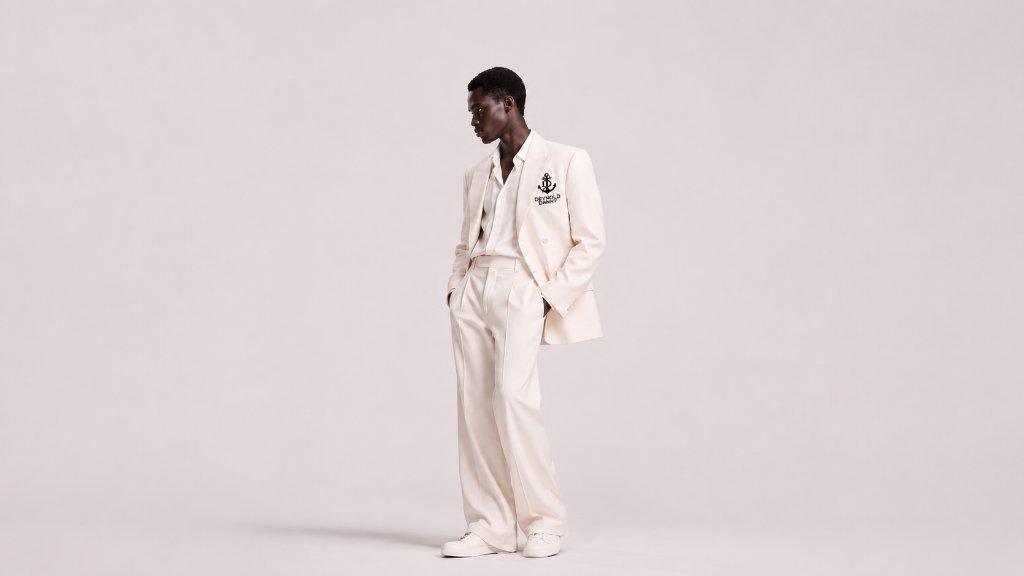
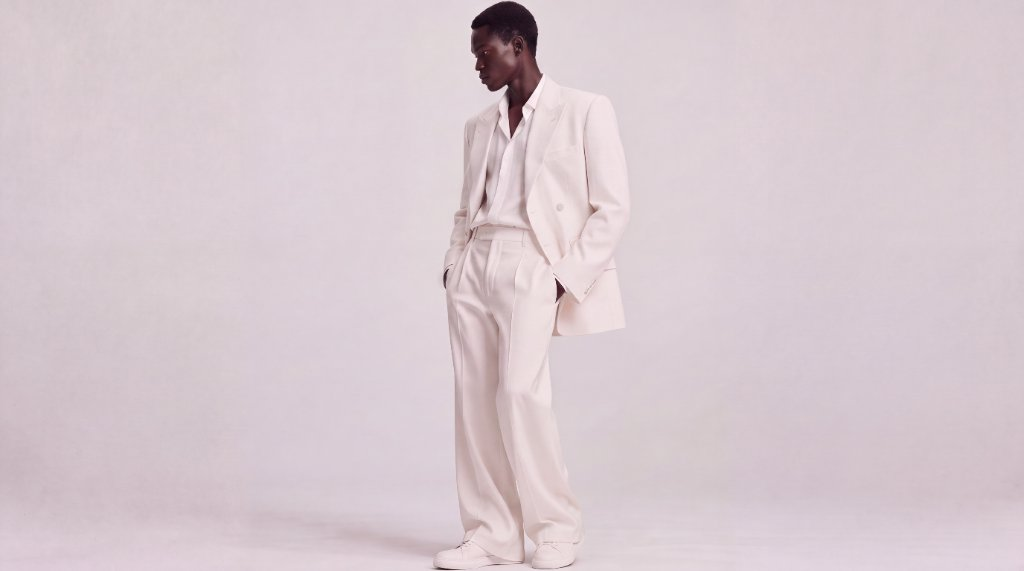
Render original 1024x571 clean-lapel hero image at native 1:1 size with minimal scrim

Changed region(s): [[0.3438, 0.0, 0.5938, 1.0], [0.0, 0.7443, 0.0625, 0.8634]]

diff --git a/src/styles/luxury-custom.css b/src/styles/luxury-custom.css
@@ -671,11 +671,12 @@ label:focus-visible {
   transform: translateX(4px);
 }
 
-/* Exact 1520.8 x 855 Hero Banner Container */
+/* Native 1024 x 571 Hero Banner Container */
 .hero-banner-container {
   width: 100%;
-  max-width: 1520.8px;
-  height: 855px;
+  max-width: 1024px;
+  height: auto;
+  aspect-ratio: 1024 / 571;
   position: relative;
   overflow: hidden;
   margin: 0 auto;
@@ -683,17 +684,16 @@ label:focus-visible {
   box-shadow: 0 4px 30px rgba(0, 0, 0, 0.04);
 }
 
-/* Subtle gradient overlay to guarantee perfect contrast for #FFFFFF text */
+/* Minimal bottom-edge contrast scrim only; keeps hero suit and studio crystal clear */
 .hero-banner-container::after {
   content: '';
   position: absolute;
   inset: 0;
   background: linear-gradient(
     to top,
-    rgba(0, 0, 0, 0.62) 0%,
-    rgba(0, 0, 0, 0.35) 28%,
-    rgba(0, 0, 0, 0.08) 55%,
-    rgba(0, 0, 0, 0) 100%
+    rgba(0, 0, 0, 0.36) 0%,
+    rgba(0, 0, 0, 0.14) 12%,
+    rgba(0, 0, 0, 0) 24%
   );
   pointer-events: none;
   z-index: 2;
@@ -791,7 +791,7 @@ label:focus-visible {
   .hero-banner-container {
     width: 100%;
     height: auto;
-    aspect-ratio: 1520.8 / 855.45;
+    aspect-ratio: 1024 / 571;
   }
 }
 

diff --git a/GEMINI.md b/GEMINI.md
@@ -964,6 +964,16 @@ deynold-danny-ecommerce/
     - `npm run build`: PASS (40 page(s) built in 7.45s).
   - **Blockers:** None.
 
+- **2026-11-12 — Update Hero Banner to Clean-Lapel Original Image (`1024×571`) with Native 1:1 Container Sizing & Reduced Scrim**:
+  - **Status:** COMPLETE
+  - **Summary:** Replaced `public/hero-banner.jpg` with the clean-lapel `1024×571` (`30,875` bytes) studio editorial image, capped `.hero-banner-container` to `max-width: 1024px; aspect-ratio: 1024 / 571;` (`height: auto`) across `src/features/home/components/HeroBanner.astro` and `src/styles/luxury-custom.css` so the image renders at native `1:1` sharpness without upscaling blur, updated `width="1024" height="571" decoding="sync" fetchpriority="high"` and `#ffffff` section backdrop in `HeroBanner.astro`, and reduced `.hero-banner-container::after` in `src/styles/luxury-custom.css` to a subtle bottom-24% gradient so the suit and studio remain crystal clear.
+  - **Files Modified:** `public/hero-banner.jpg`, `src/features/home/components/HeroBanner.astro`, `src/styles/luxury-custom.css`, `AGENTS.md`, `GEMINI.md`.
+  - **Structural change summary:** No architecture or directory-structure change in this task.
+  - **Validation:**
+    - `.\node_modules\.bin\astro.cmd check`: PASS (74 files checked: 0 errors, 0 warnings, 0 hints).
+    - `.\node_modules\.bin\astro.cmd build`: PASS (40 page(s) built in 6.86s). (Direct `astro.cmd` invocation used because `C:` drive had ~60 MB free for npm logs.)
+  - **Blockers:** Low free disk space (~0.06 GB) on `C:` drive caused `npm` log/cache writes to hit `ENOSPC`; direct Astro CLI build on `D:` succeeded cleanly.
+
 ## 9. Required final response
 
 After each coding task, provide a concise completion report that states:

diff --git a/AGENTS.md b/AGENTS.md
@@ -1959,4 +1959,14 @@ deynold-danny-ecommerce/
     - `npm run build`: PASS (40 page(s) built in 7.45s).
   - **Blockers:** None.
 
+- **2026-11-12 — Update Hero Banner to Clean-Lapel Original Image (`1024×571`) with Native 1:1 Container Sizing & Reduced Scrim**:
+  - **Status:** COMPLETE
+  - **Summary:** Replaced `public/hero-banner.jpg` with the clean-lapel `1024×571` (`30,875` bytes) studio editorial image, capped `.hero-banner-container` to `max-width: 1024px; aspect-ratio: 1024 / 571;` (`height: auto`) across `src/features/home/components/HeroBanner.astro` and `src/styles/luxury-custom.css` so the image renders at native `1:1` sharpness without upscaling blur, updated `width="1024" height="571" decoding="sync" fetchpriority="high"` and `#ffffff` section backdrop in `HeroBanner.astro`, and reduced `.hero-banner-container::after` in `src/styles/luxury-custom.css` to a subtle bottom-24% gradient so the suit and studio remain crystal clear.
+  - **Files Modified:** `public/hero-banner.jpg`, `src/features/home/components/HeroBanner.astro`, `src/styles/luxury-custom.css`, `AGENTS.md`, `GEMINI.md`.
+  - **Structural change summary:** No architecture or directory-structure change in this task.
+  - **Validation:**
+    - `.\node_modules\.bin\astro.cmd check`: PASS (74 files checked: 0 errors, 0 warnings, 0 hints).
+    - `.\node_modules\.bin\astro.cmd build`: PASS (40 page(s) built in 6.86s). (Direct `astro.cmd` invocation used because `C:` drive had ~60 MB free for npm logs.)
+  - **Blockers:** Low free disk space (~0.06 GB) on `C:` drive caused `npm` log/cache writes to hit `ENOSPC`; direct Astro CLI build on `D:` succeeded cleanly.
+
 **The agent is expected to extend this architecture deliberately, not drift away from it.**
